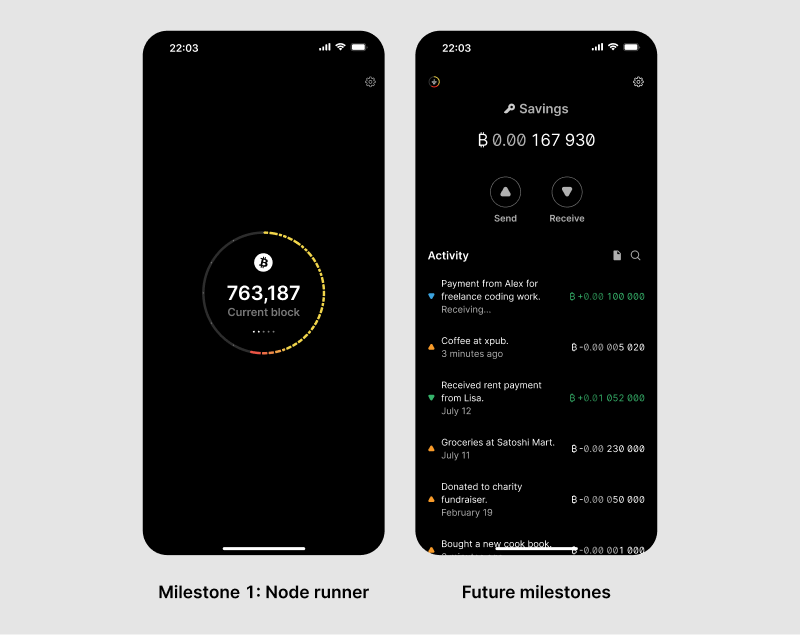
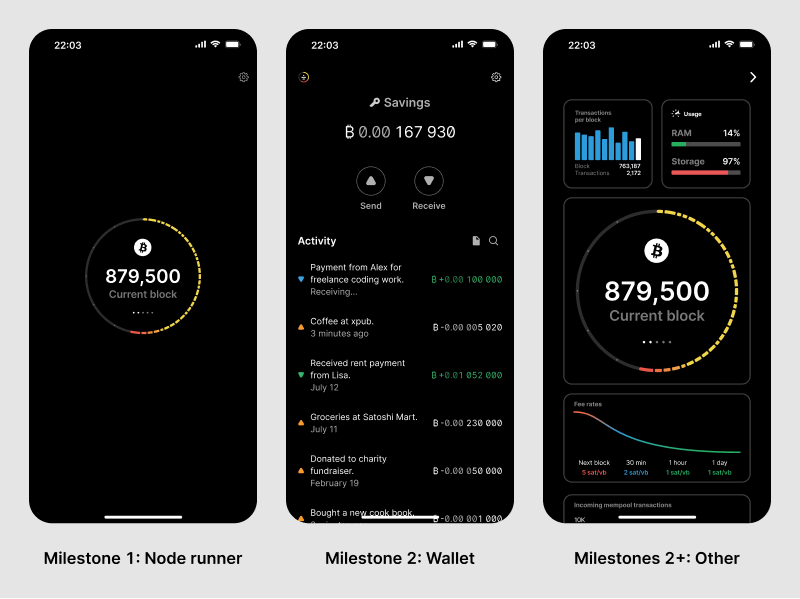
Light page restructuring (#146)
* Light page restructuring

Moving some of the designs that are beyond the parity point with the QT wallet into a "Milestones 2.x" section. Makes for a clearer separation of exploratory features vs. the core of the application.

Note that this is not a 100% clean separation across pages. Within a feature, there might be multiple versions to get implemented iteratively. But at least this one moves some of the big ones into a dedicated category. We'll continue to tweak this as we go.

Also sneaking in some minor fixes here.
- Adding missing favicons
- Removing web manifest as its not needed
- Fixing a bug in the picture template so it doesn't render empty image sources

Also added a rake file to automatically detect broken links and URLs. And fixed a few of them.

* Moving multi-key to the 2.x milestone

Also:
- Updating the roadmap page with the 2.x milestones
- Moving block status page out of the milestones folder (not sure why it's in there)
- Adding list of settings sub-pages to the settings main page.

diff --git a/_includes/picture.html b/_includes/picture.html
@@ -3,14 +3,16 @@
         <a href="{{ include.big | relative_url }}" target="_blank">
     {% endif %}
 	<picture>
-		<source
-			media="(max-width: 639px)"
-	    	{% if include.mobileRetina %}
-	    		srcset="{{ include.mobile | relative_url }} 1x, {{ include.mobileRetina | relative_url }} 2x"
-	    	{% else %}
-	    		srcset="{{ include.mobile | relative_url }}"
-	    	{% endif %}
-		>
+		{% if include.mobile %}
+			<source
+				media="(max-width: 639px)"
+				{% if include.mobileRetina %}
+					srcset="{{ include.mobile | relative_url }} 1x, {{ include.mobileRetina | relative_url }} 2x"
+				{% else %}
+					srcset="{{ include.mobile | relative_url }}"
+				{% endif %}
+			>
+		{% endif %}
 	    <img
 	    	src="{{ include.image | relative_url }}"
 	    	{% if include.retina %}

diff --git a/_includes/custom-head.html b/_includes/custom-head.html
@@ -16,8 +16,6 @@
 <link rel="apple-touch-icon" sizes="180x180" href="{{ "/assets/apple-touch-icon.png" | relative_url }}">
 <link rel="icon" type="image/png" sizes="32x32" href="{{ "/assets/favicon-32x32.png" | relative_url }}">
 <link rel="icon" type="image/png" sizes="16x16" href="{{ "/assets/favicon-16x16.png" | relative_url }}">
-<link rel="manifest" href="{{ "/site.webmanifest" | relative_url }}">
-<link rel="mask-icon" href="{{ "/assets/safari-pinned-tab.svg" | relative_url }}" color="#f2a900">
 
 <meta name="msapplication-TileColor" content="#f2a900">
 <meta name="theme-color" content="#f2a900">

diff --git a/pages/research.md b/pages/research.md
@@ -28,7 +28,7 @@ Researchers utilizing AI and tools for data processing must secure consent to mi
 
 ## How research is organized
 
-The research done on this project so far has been organized and initiated within the [Bitcoin Design Community](http://bitcoin.design). An additional research initiative on nodes has been done by a Bitcoin Core developer as well.  Within the Bitcoin Design Community there have been calls organized so that people can contribute, as well as understand the research efforts.
+The research done on this project so far has been organized and initiated within the [Bitcoin Design Community](https://bitcoin.design). An additional research initiative on nodes has been done by a Bitcoin Core developer as well.  Within the Bitcoin Design Community there have been calls organized so that people can contribute, as well as understand the research efforts.
 
 The project will continue to conduct more research as it is in development. This process of deciding on the research goals will be done by gaining consensus in the project on what insights need to be understood and identifying if those insights will have an impact on the product.
 
@@ -73,7 +73,7 @@ The goal of creating these user stories is to then test if these various user fl
 Specific research, particularly on the node and wallet sides, involved surveys and guerilla testing. The former provided a deeper understanding of node operators, while the latter provided feedback on the onboarding flow of the new Bitcoin Core App.
 
 #### Node
-At the beginning of 2021 a survey was run by Ava Chow, a Bitcoin Core developer. This survey was sponsored by [MIT's Digital Currency Initiative] (https://dci.mit.edu/) and in partnership with [Maiden Labs](http://maiden.global/).  Its goal was to better understand the people who run nodes and use the Bitcoin Core wallet, as well as people familiar with Bitcoin but who maybe don’t run a node (yet).
+At the beginning of 2021 a survey was run by Ava Chow, a Bitcoin Core developer. This survey was sponsored by [MIT's Digital Currency Initiative] (https://dci.mit.edu/) and in partnership with [Maiden Labs](https://maiden.global/).  Its goal was to better understand the people who run nodes and use the Bitcoin Core wallet, as well as people familiar with Bitcoin but who maybe don’t run a node (yet).
 
 The [survey](https://survey.alchemer.com/s3/6081474/8acd79087feb) took 15-20 minutes to complete.
 

diff --git a/pages/milestones/1-7-send.md b/pages/milestones/1-7-send.md
@@ -29,15 +29,15 @@ Below is a visual map of how we can reach this parity point based on Milestone 1
 
 The complexity of the send flow can range dramatically. Some of the features to support:
 
-- [Address book]({{ '/milestones/1-7-send/contacts' | relative_url }})
+- [Address book]({{ '/contacts/' | relative_url }})
 - Fee estimation, recommendations and customization
-- [Coin selection]({{ '/milestones/1-7-send/coin-selection' | relative_url }})
-- [External signers]({{ '/milestones/1-7-send/external-key' | relative_url }})
-- [Multiple signers]({{ '/milestones/1-7-send/multiple-keys' | relative_url }})
+- [Coin selection]({{ '/send/coin-selection/' | relative_url }})
+- [External signers]({{ '/send/external-key/' | relative_url }})
+- [Multiple signers]({{ '/send/multiple-keys/' | relative_url }})
 - Multiple signing paths
-- [Silent payments]({{ '/milestones/1-7-send/silent-payments' | relative_url }})
-- [Transaction batching]({{ '/milestones/1-7-send/multiple-recipients' | relative_url }})
-- [Transaction (PSBT) import and export]({{ '/milestones/1-7-send/import-export' | relative_url }})
+- [Silent payments]({{ '/silent-payments/' | relative_url }})
+- [Transaction batching]({{ '/send/multiple-recipients/' | relative_url }})
+- [Transaction (PSBT) import and export]({{ '/send/import-export/' | relative_url }})
 - Bitcoin URI scheme support
 - Clipboard support
 

diff --git a/pages/roadmap.md b/pages/roadmap.md
@@ -11,7 +11,7 @@ The long-term goal for the application is to become a full-featured bitcoin wall
 
 ## Internal versions
 
-[Milestone 1]({{ '/milestone-1/' | relative_url }}) will be a simple node runner for desktop and mobile Android. 
+[Milestone 1]({{ '/milestones/1/' | relative_url }}) will be a simple node runner for desktop and mobile Android. 
 
 {% include picture.html
 	image = "/assets/images/cross-platform-layouts.png"
@@ -21,12 +21,12 @@ The long-term goal for the application is to become a full-featured bitcoin wall
 	height = 551
 %}
 
-[Future milestones]({{ '/future-milestones/' | relative_url }}) will work towards broader platform support and wallet features.
+[1.x milestones]({{ '/milestones/1-x/' | relative_url }}) will work towards essential wallet features and parity witht the existing QT application. [2.x milestones]({{ '/milestones/2-x/' | relative_url }}) are more open-ended and changes and features will be prioritized in the future.
 
 {% include picture.html
 	image = "/assets/images/bitcoin-core-app-versions.png"
 	retina = "/assets/images/bitcoin-core-app-versions@2x.png"
 	alt-text = "Milestone 1 and future milestone illustrations"
 	width = 800
-	height = 635
+	height = 1197
 %}

diff --git a/pages/silent-payments.md b/pages/silent-payments.md
@@ -1,8 +1,8 @@
 ---
 layout: default
 title: Silent payments
-permalink: /milestones/1-7-send/silent-payments
-nav_order: 186
+permalink: /silent-payments/
+nav_order: 205
 indent: true
 ---
 
@@ -22,7 +22,7 @@ When creating a payment request, users can choose whether they would like to use
 	height = 366
 %}
 
-If users have multiple sub-addresses they can choose which one they would like to receive the payment to. Based on their selection, the corresponding label will be auto-applied to any incoming payment made to that address. You can learn more about sub-addresses on the [address management]({{ '/milestones/other/address-management' | relative_url }}) page. There is also an option to create a new sub-address ad hoc.
+If users have multiple sub-addresses they can choose which one they would like to receive the payment to. Based on their selection, the corresponding label will be auto-applied to any incoming payment made to that address. You can learn more about sub-addresses on the [address management]({{ '/addresses/' | relative_url }}) page. There is also an option to create a new sub-address ad hoc.
 
 ### Sending
 

diff --git a/pages/milestones/1.md b/pages/milestones/1.md
@@ -9,3 +9,14 @@ header: true
 # Milestone 1: Block status
 
 The first somewhat official release of the application only includes a simple [onboarding]({{ '/first-use/' | relative_url }}) flow, the [block status]({{ '/block-status/' | relative_url }}), and [settings]({{ '/settings/' | relative_url }}). Goal is to make running a node simple and convenient on many different devices. This also allows for establishing a solid foundation for the project, so future development or more complex UI will be easier.
+
+- [First use]({{ '/first-use/' | relative_url }})
+- [Block status]({{ '/block-status/' | relative_url }})
+- [Settings]({{ '/settings/' | relative_url }})
+  - [Display]({{ '/settings/display/' | relative_url }})
+  - [Storage]({{ '/settings/storage/' | relative_url }})
+  - [Connection]({{ '/settings/connection/' | relative_url }})
+  - [Peers]({{ '/settings/peers/' | relative_url }})
+  - [Network]({{ '/settings/network/' | relative_url }})
+  - [About]({{ '/settings/about/' | relative_url }})
+  - [Developer]({{ '/settings/developer/' | relative_url }})

diff --git a/pages/milestones/2-x.md b/pages/milestones/2-x.md
@@ -1,0 +1,20 @@
+---
+layout: default
+title: Milestones 2.x
+permalink: /milestones/2-x/
+nav_order: 200
+header: true
+---
+
+# Milestones 2.x
+
+Once parity with the existing QT-based application was reached (as is the goal with the 1.x milestones), there will still be improvements to be made and features to be added. This includes some very obvious additions, as well as some more conceptual ones that require more exploration.
+
+- [Multiple keys]({{ '/send/multiple-keys/' | relative_url }})
+- [Snapshot]({{ '/snapshot/' | relative_url }})
+- [Explorer]({{ '/explorer/' | relative_url }})
+- [Showcase]({{ '/showcase/' | relative_url }})
+- [Silent payments]({{ '/silent-payments/' | relative_url }})
+- [Test transactions]({{ '/test-transactions/' | relative_url }})
+
+Priorization, milestone numbers, etc are all to-be-determined.

diff --git a/pages/milestones/1-8-other.md b/pages/milestones/1-8-other.md
@@ -14,6 +14,10 @@ _[Design milestone](https://github.com/BitcoinDesign/Bitcoin-Core-App/milestone/
 
 There are several features and screens that are not essential to wallet functionality, like the console and messages signing/verification. These can be tackled in this milestone after the more foundational features are completed.
 
+- [Console]({{ '/console/' | relative_url }})
+- [Contacts]({{ '/contacts/' | relative_url }})
+- [Addresses]({{ '/addresses/' | relative_url }})
+
 {% include picture.html
 	image = "/assets/images/milestones/1-8-other.png"
 	retina = "/assets/images/milestones/1-8-other@2x.png"

diff --git a/pages/test-transactions.md b/pages/test-transactions.md
@@ -1,8 +1,8 @@
 ---
 layout: default
 title: Test transactions
-permalink: /milestones/1-7-send/test-transactions
-nav_order: 187
+permalink: /test-transactions/
+nav_order: 204
 indent: true
 ---
 

diff --git a/pages/send/coin-selection.md b/pages/send/coin-selection.md
@@ -1,8 +1,8 @@
 ---
 layout: default
 title: Coin selection
-permalink: /milestones/1-7-send/coin-selection
-nav_order: 174
+permalink: /send/coin-selection/
+nav_order: 175
 indent: true
 ---
 

diff --git a/pages/send/multiple-keys.md b/pages/send/multiple-keys.md
@@ -1,8 +1,8 @@
 ---
 layout: default
 title: Multiple keys
-permalink: /milestones/1-7-send/multiple-keys
-nav_order: 176
+permalink: /send/multiple-keys/
+nav_order: 202
 indent: true
 ---
 
